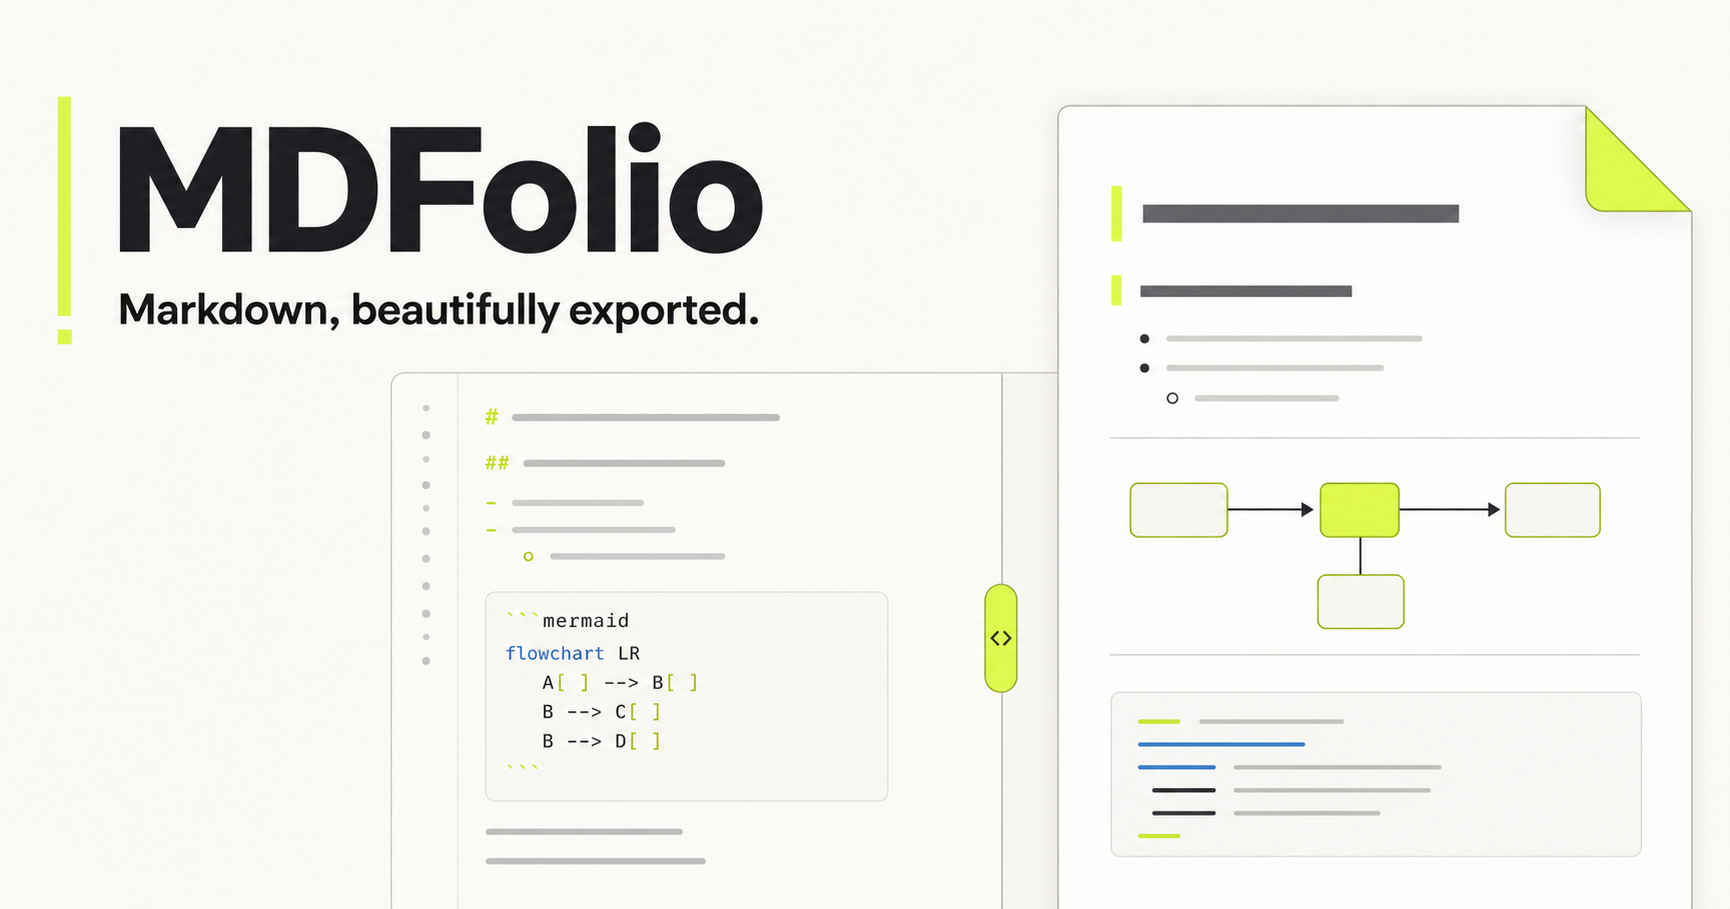
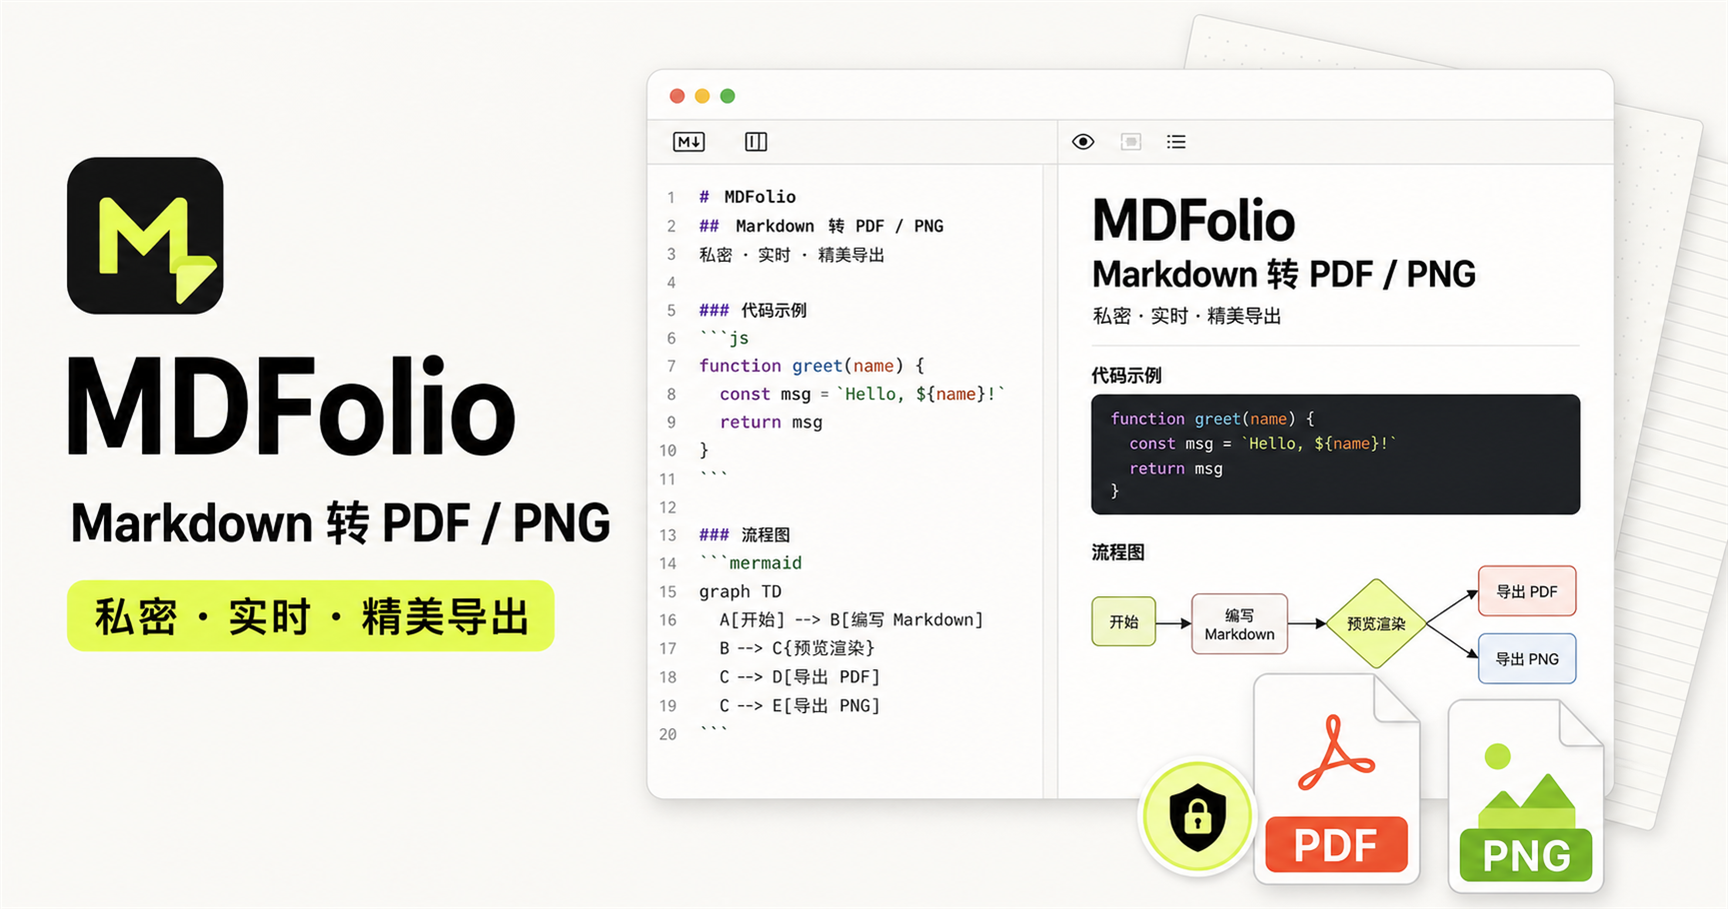
Update MDFolio export descriptions

diff --git a/app/layout.tsx b/app/layout.tsx
@@ -8,22 +8,22 @@ const metadataBase = new URL(siteUrl.endsWith("/") ? siteUrl : `${siteUrl}/`);
 
 export const metadata: Metadata = {
   metadataBase,
-  title: "MDFolio — Markdown 转 PDF",
-  description: "支持代码高亮与 Mermaid 的隐私优先 Markdown PDF 工作台。",
+  title: "MDFolio — Markdown 转 PDF / PNG",
+  description: "支持代码高亮、Mermaid、PDF 与 PNG 导出的隐私优先 Markdown 工作台。",
   icons: {
     icon: "favicon.svg",
     shortcut: "favicon.svg",
   },
   openGraph: {
     type: "website",
-    title: "MDFolio — Markdown 转 PDF",
-    description: "支持代码高亮与 Mermaid 的隐私优先 Markdown PDF 工作台。",
-    images: [{ url: "og.png", width: 1728, height: 909, alt: "MDFolio Markdown PDF 工作台" }],
+    title: "MDFolio — Markdown 转 PDF / PNG",
+    description: "支持代码高亮、Mermaid、PDF 与 PNG 导出的隐私优先 Markdown 工作台。",
+    images: [{ url: "og.png", width: 1728, height: 909, alt: "MDFolio Markdown PDF 与 PNG 工作台" }],
   },
   twitter: {
     card: "summary_large_image",
-    title: "MDFolio — Markdown 转 PDF",
-    description: "支持代码高亮与 Mermaid 的隐私优先 Markdown PDF 工作台。",
+    title: "MDFolio — Markdown 转 PDF / PNG",
+    description: "支持代码高亮、Mermaid、PDF 与 PNG 导出的隐私优先 Markdown 工作台。",
     images: ["og.png"],
   },
 };

diff --git a/app/page.tsx b/app/page.tsx
@@ -35,7 +35,7 @@ import { documentBaseName, exportMermaidElement, triggerDownload, waitForMermaid
 import type { WatermarkConfig } from "./png-export";
 import { type CSSProperties, type MouseEvent as ReactMouseEvent, useCallback, useDeferredValue, useEffect, useMemo, useRef, useState } from "react";
 
-const starterMarkdown = `# 把想法，变成漂亮的 PDF
+const starterMarkdown = `# 把想法，变成漂亮的文档
 
 > **MDFolio** 是一个专注、私密的 Markdown 排版工作台。内容只在你的浏览器里处理。
 
@@ -45,7 +45,7 @@ const starterMarkdown = `# 把想法，变成漂亮的 PDF
 - [x] 自动代码高亮
 - [x] Mermaid 图表渲染
 - [x] 表格、任务清单与引用
-- [x] A4 优化的 PDF 导出
+- [x] A4 优化的 PDF 与高清 PNG 导出
 
 ## 代码高亮
 
@@ -67,7 +67,7 @@ flowchart LR
     A[Markdown] --> B{实时解析}
     B --> C[代码高亮]
     B --> D[Mermaid]
-    C --> E[精美 PDF]
+    C --> E[PDF / PNG]
     D --> E
 \`\`\`
 
